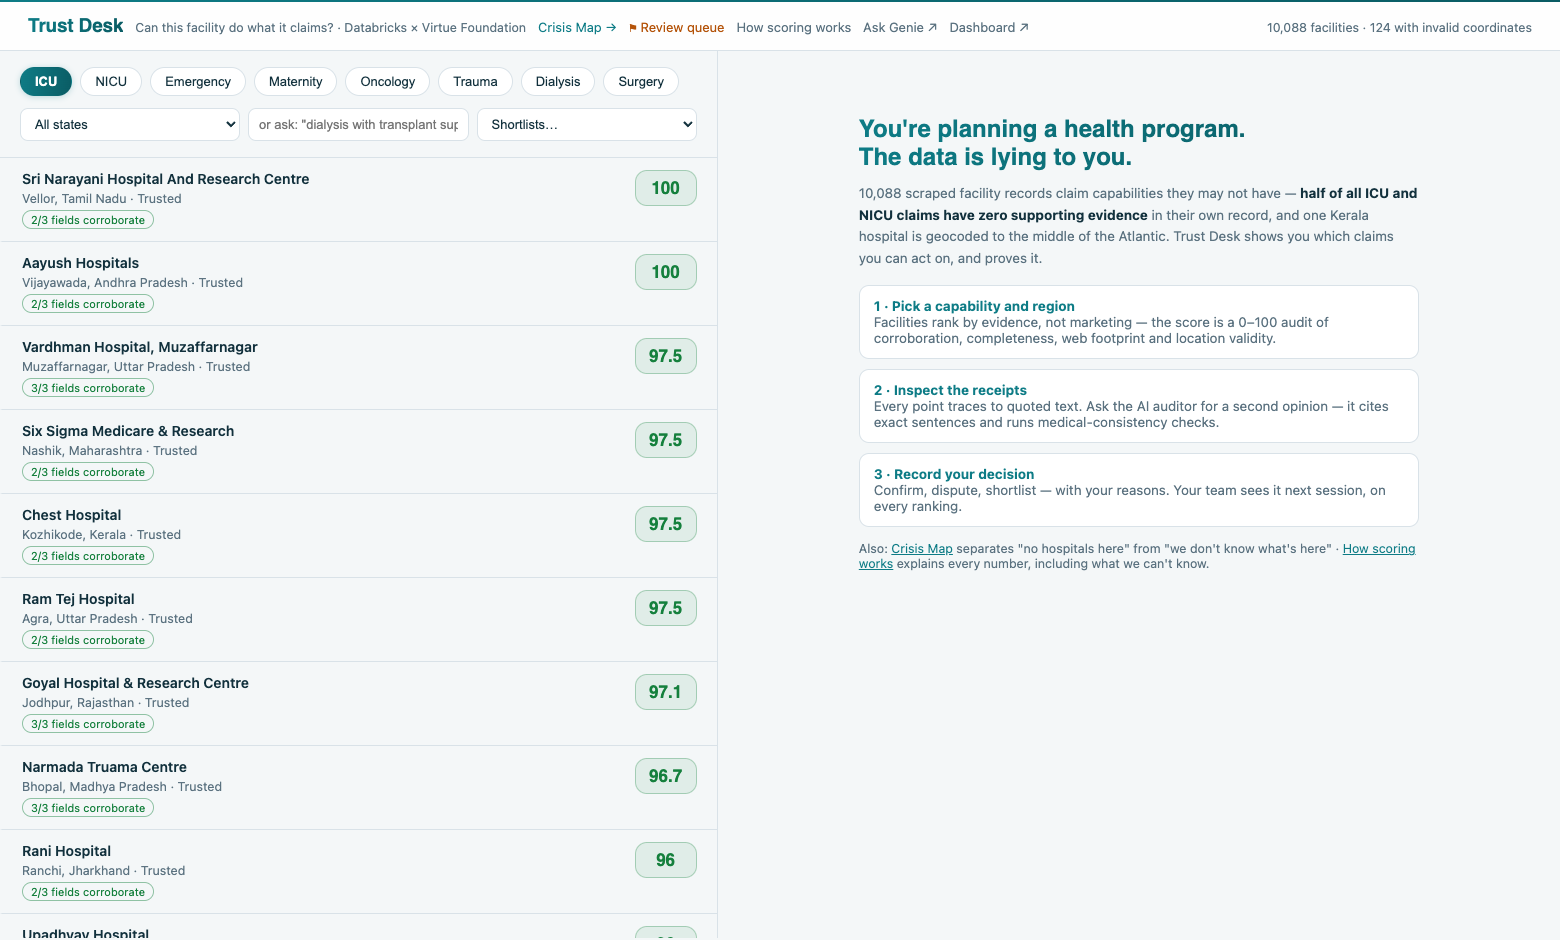
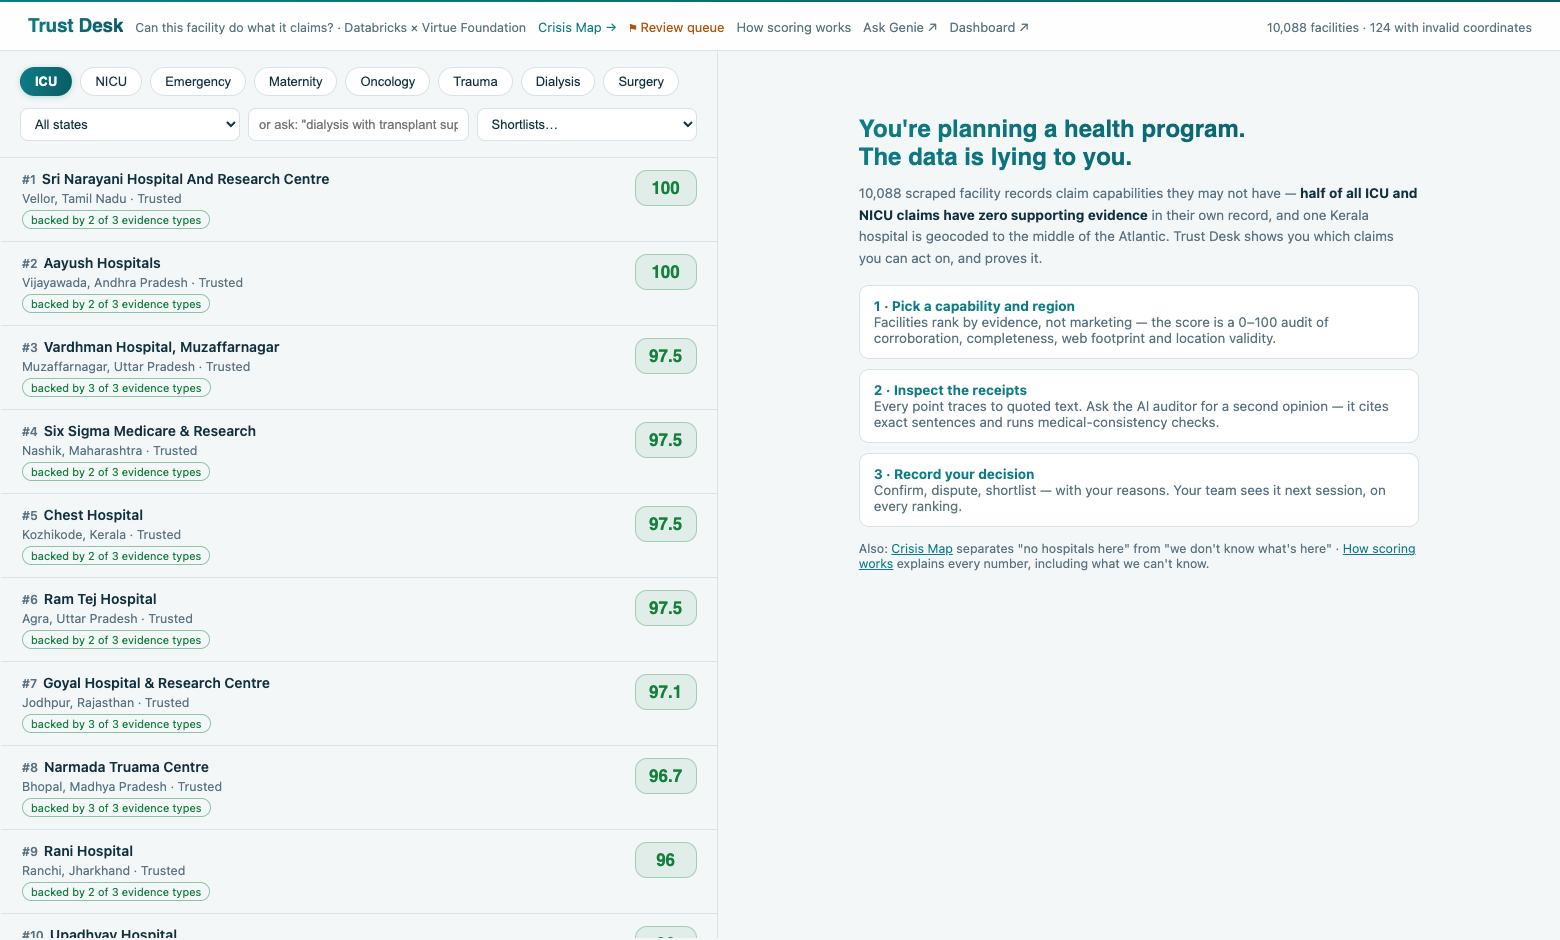
Skeleton loaders, rank numbers, README hero image

diff --git a/app/static/index.html b/app/static/index.html
@@ -152,6 +152,13 @@
   .v-dispute { color: var(--bad); font-weight: 600; }
   .v-flag { color: var(--warn); font-weight: 600; }
   #loading { padding: 20px; color: var(--muted); font-size: 13px; }
+  .rank { color: var(--muted); font-weight: 600; font-size: 12px; margin-right: 6px; }
+  .skel {
+    height: 64px; margin: 10px 20px; border-radius: 10px;
+    background: linear-gradient(90deg, var(--panel2) 25%, #e6edf0 37%, var(--panel2) 63%);
+    background-size: 400% 100%; animation: shimmer 1.3s ease infinite;
+  }
+  @keyframes shimmer { 0% { background-position: 100% 0; } 100% { background-position: 0 0; } }
   .verdict {
     border-radius: 10px; padding: 10px 14px; font-size: 13.5px; font-weight: 600;
     margin-bottom: 14px; border: 1px solid;
@@ -279,7 +286,7 @@ refreshShortlists();
 $("slSel").onchange = () => {
   const id = $("slSel").value;
   if (!id) return;
-  $("list").innerHTML = `<div id="loading">Loading shortlist…</div>`;
+  $("list").innerHTML = skeleton("Loading shortlist…");
   fetch(`/api/shortlists/${id}/facilities`).then(r => r.json()).then(rows => {
     if (!Array.isArray(rows) || !rows.length) { $("list").innerHTML = `<div id="loading">Shortlist is empty.</div>`; return; }
     renderRows(rows, true);
@@ -291,7 +298,7 @@ function semanticSearch() {
   // "dialysis near Jaipur" → referral mode with distance ranking
   const m = raw.match(/^(.*)\s+near\s+(.+)$/i);
   if (m) return referralSearch(m[1].trim(), m[2].trim());
-  $("list").innerHTML = `<div id="loading">Searching 10,088 facilities semantically…</div>`;
+  $("list").innerHTML = skeleton("Searching 10,088 facilities semantically…");
   const u = new URLSearchParams({q: raw});
   if (curState) u.set("state", curState);
   fetch("/api/search?" + u).then(r => r.json()).then(d => {
@@ -302,7 +309,7 @@ function semanticSearch() {
 }
 
 function referralSearch(q, place) {
-  $("list").innerHTML = `<div id="loading">Finding “${esc(q)}” near ${esc(place)}…</div>`;
+  $("list").innerHTML = skeleton(`Finding “${esc(q)}” near ${esc(place)}…`);
   fetch(`/api/refer?` + new URLSearchParams({q, near: place})).then(r => r.json()).then(d => {
     if (d.error) { $("list").innerHTML = `<div id="loading">${esc(d.error)}</div>`; return; }
     if (!d.results.length) { $("list").innerHTML = `<div id="loading">No matches.</div>`; return; }
@@ -334,7 +341,7 @@ function renderSearchRows(rows, tagFn) {
 
 function loadReviewQueue() {
   document.querySelectorAll(".chip").forEach(x => x.classList.remove("active"));
-  $("list").innerHTML = `<div id="loading">Loading flagged records…</div>`;
+  $("list").innerHTML = skeleton("Loading flagged records…");
   fetch("/api/review_queue").then(r => r.json()).then(rows => {
     if (!Array.isArray(rows)) { $("list").innerHTML = `<div id="loading">${esc(rows.error)}</div>`; return; }
     $("list").innerHTML = "";
@@ -380,7 +387,7 @@ if (qp.get("cap") && CAPS.includes(qp.get("cap"))) {
 function scoreClass(s) { return s >= 60 ? "score-hi" : s >= 35 ? "score-mid" : "score-lo"; }
 
 function loadList() {
-  $("list").innerHTML = `<div id="loading">Ranking ${CAP_LABELS[curCap]} facilities…</div>`;
+  $("list").innerHTML = skeleton(`Ranking ${CAP_LABELS[curCap]} facilities…`);
   const q = new URLSearchParams({capability: curCap});
   if (curState) q.set("state", curState);
   fetch("/api/facilities?" + q).then(r => r.json()).then(rows => {
@@ -390,11 +397,18 @@ function loadList() {
   });
 }
 
+function skeleton(msg) {
+  return `<div id="loading">${msg}</div>` + `<div class="skel"></div>`.repeat(6);
+}
+
 function renderRows(rows, fromShortlist) {
   $("list").innerHTML = "";
+  let rank = 0;
   for (const r of rows) {
+    rank++;
     const div = document.createElement("div");
     div.className = "frow"; div.dataset.id = r.unique_id;
+    r._rank = rank;
     const corr = r.corroborations;
     const corrTag = fromShortlist ? `<span class="tag on">shortlisted</span>`
       : corr === 0
@@ -416,7 +430,7 @@ function renderRows(rows, fromShortlist) {
       ? `${r.trust_score}<span style="font-size:11px;font-weight:500;display:block">–${r.trust_hi}</span>`
       : r.trust_score;
     div.innerHTML = `
-      <div class="name">${esc(r.name)}</div>
+      <div class="name"><span class="rank">${fromShortlist ? "★" : "#" + r._rank}</span>${esc(r.name)}</div>
       <div class="score-badge ${scoreClass(r.trust_score)}" title="Evidence score 0–100: corroboration 40 + completeness 20 + web 25 + geo 15 − penalties. ${esc(r.tier)}. Click the row for the receipts.">${scoreTxt}</div>
       <div class="loc">${esc(r.city || "—")}, ${esc(r.state || "—")} · ${esc(r.tier)}</div>
       <div class="sig">${humanTag}${corrTag}${geoTag}${penTag}${uncTag}</div>`;

diff --git a/README.md b/README.md
@@ -9,6 +9,9 @@
 > `assets/`. To try it live, send any email address to [email redacted] and I'll add you to the
 > workspace within minutes — or run `tools/smoke` against your own deployment using the run instructions below.
 
+
+![Trust Desk — evidence-ranked facilities with cited quotes](assets/ui-detail.png)
+
 An NGO planner deciding where to send an ICU program has 10,088 scraped facility records. "Has ICU" might be marketing. Coordinates might be in the ocean. Trust Desk answers the track question — *can this facility do what it claims?* — with cited evidence, honest uncertainty, and persistent human judgment.
 
 ## The finding that drives the product